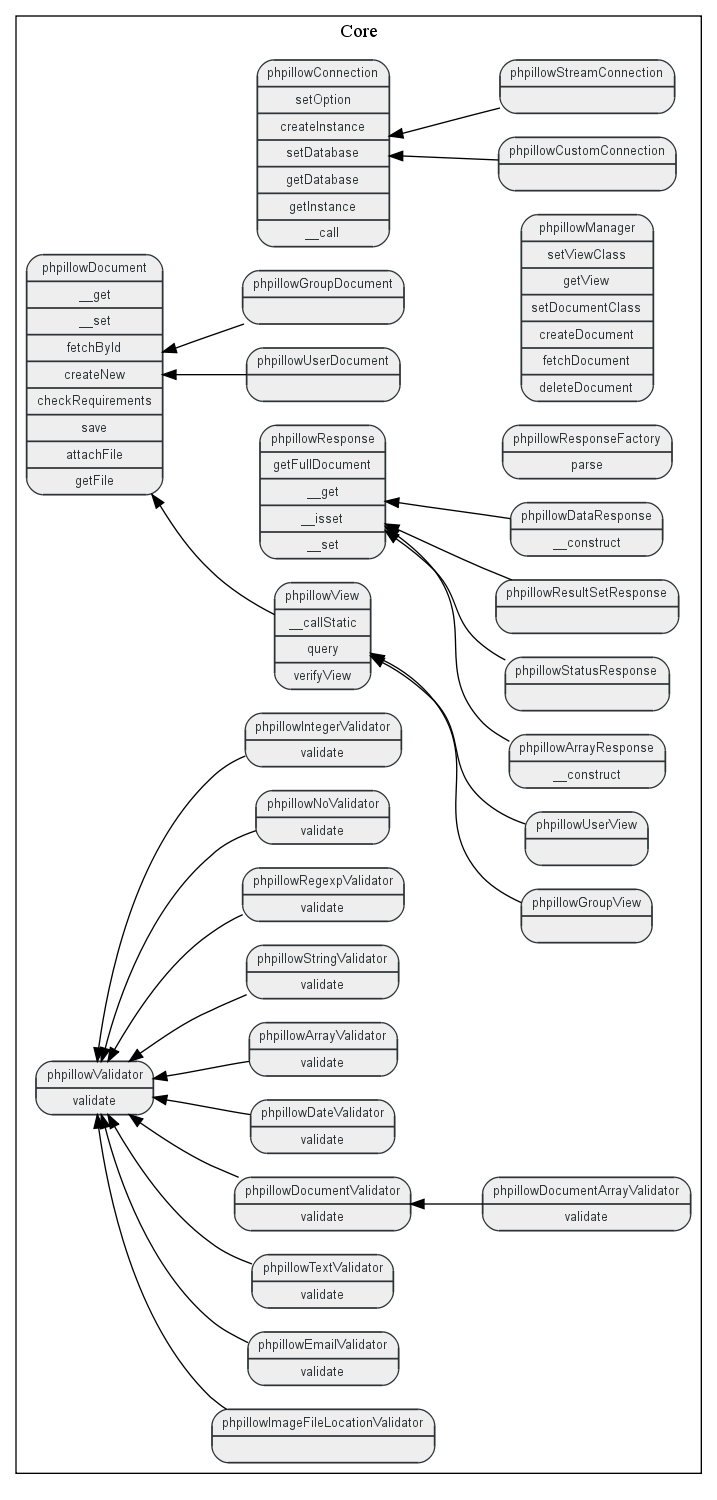
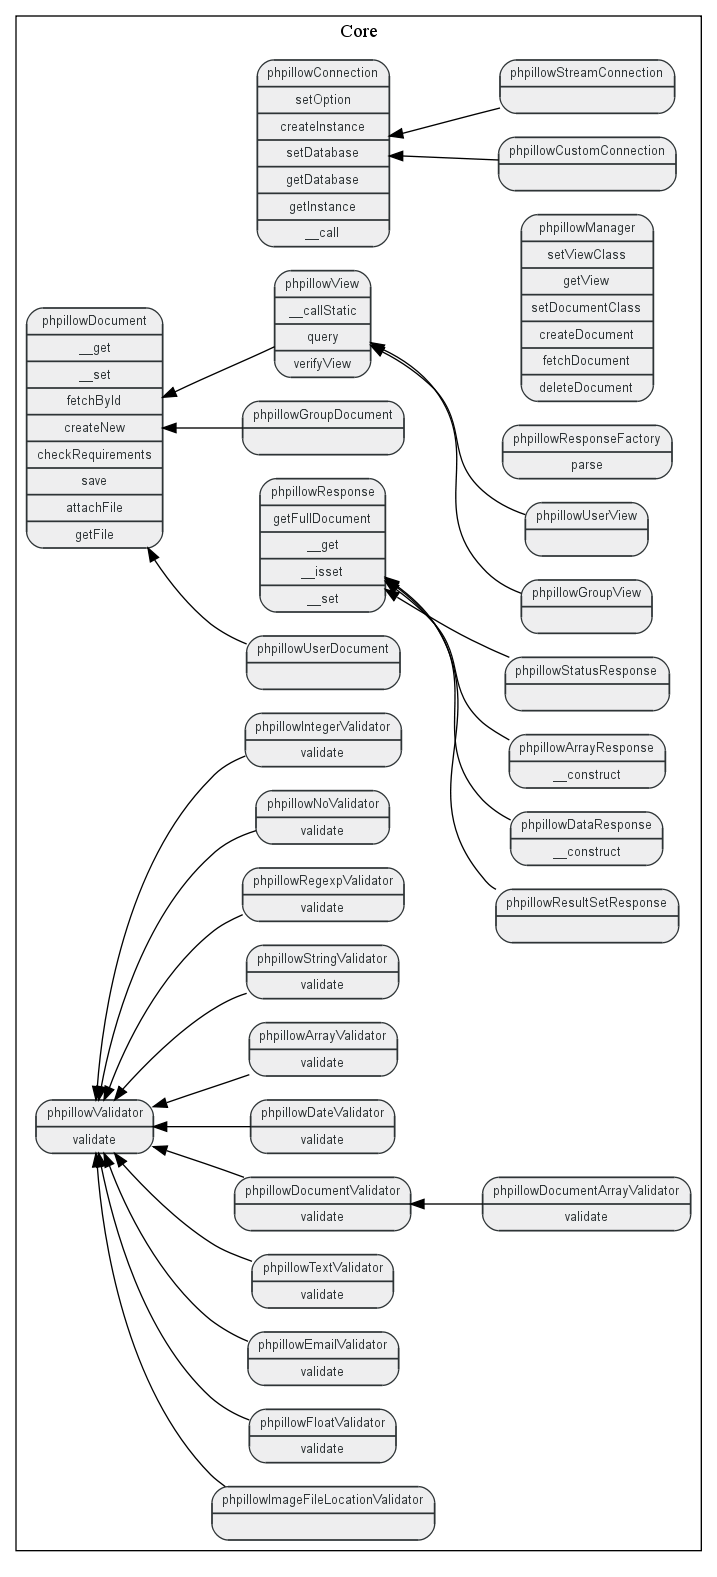
- Implemented: Float number validator
git-svn-id: svn://arbitracker.org/phpillow/trunk@65 c9640fd1-f2a0-481e-a8e5-009dc8289155

diff --git a/src/classes/validator/float.php b/src/classes/validator/float.php
@@ -1,0 +1,102 @@
+<?php
+/**
+ * phpillow CouchDB backend
+ *
+ * This file is part of phpillow.
+ *
+ * phpillow is free software; you can redistribute it and/or modify it under
+ * the terms of the GNU Lesser General Public License as published by the Free
+ * Software Foundation; version 3 of the License.
+ *
+ * phpillow is distributed in the hope that it will be useful, but WITHOUT ANY
+ * WARRANTY; without even the implied warranty of MERCHANTABILITY or FITNESS
+ * FOR A PARTICULAR PURPOSE.  See the GNU Lesser General Public License for
+ * more details.
+ *
+ * You should have received a copy of the GNU Lesser General Public License
+ * along with phpillow; if not, write to the Free Software Foundation, Inc., 51
+ * Franklin St, Fifth Floor, Boston, MA  02110-1301  USA
+ *
+ * @package Core
+ * @version $Revision: 4 $
+ * @license http://www.gnu.org/licenses/lgpl-3.0.txt LGPL
+ */
+
+/**
+ * Validate float inputs
+ *
+ * @package Core
+ * @version $Revision: 4 $
+ * @license http://www.gnu.org/licenses/lgpl-3.0.txt LGPL
+ */
+class phpillowFloatValidator extends phpillowValidator
+{
+    /**
+     * Minimum value for passed float value
+     * 
+     * @var int
+     */
+    protected $min;
+
+    /**
+     * Maximum value for passed float value
+     * 
+     * @var int
+     */
+    protected $max;
+
+    /**
+     * Validator constructor
+     *
+     * Validator constructor to optionally specifiy the minimum and maximum
+     * value for the allowed float values. For no validation you may pass
+     * false to the respective parameter.
+     * 
+     * @param mixed $min 
+     * @param mixed $max 
+     * @return void
+     */
+    public function __construct( $min = false, $max = false )
+    {
+        $this->min = $min;
+        $this->max = $max;
+    }
+
+    /**
+     * Validate input as float
+     * 
+     * @param mixed $input 
+     * @return float
+     */
+    public function validate( $input )
+    {
+        // Check for minimum constraint
+        if ( ( $this->min !== false ) &&
+             ( $input < $this->min ) )
+        {
+            throw new phpillowValidationException(
+                'Input value %input is not bigger or equal then %minimum.',
+                array(
+                    'input'   => $input,
+                    'minimum' => $this->min,
+                )
+            );
+        }
+
+        // Check for maximum constraint
+        if ( ( $this->max !== false ) &&
+             ( $input > $this->max ) )
+        {
+            throw new phpillowValidationException(
+                'Input value %input is not lesser or equal then %maximum.',
+                array(
+                    'input'   => $input,
+                    'maximum' => $this->max,
+                )
+            );
+        }
+
+        return (float) $input;
+    }
+}
+

diff --git a/tests/phpillow/validator_tests.php b/tests/phpillow/validator_tests.php
@@ -137,6 +137,77 @@ class phpillowValidatorTests extends PHPUnit_Framework_TestCase
         }
     }
 
+    public function testFloatValidator()
+    {
+        $validator = new phpillowFloatValidator();
+
+        $this->assertSame(
+            23.,
+            $validator->validate( 23 )
+        );
+
+        $this->assertSame(
+            -23.,
+            $validator->validate( -23 )
+        );
+
+        $this->assertSame(
+            23.5,
+            $validator->validate( 23.5 )
+        );
+
+        $this->assertSame(
+            23.,
+            $validator->validate( '23' )
+        );
+    }
+
+    public function testFloatValidatorBoundings1()
+    {
+        $validator = new phpillowFloatValidator( 0 );
+
+        $this->assertSame(
+            23.,
+            $validator->validate( 23 )
+        );
+
+        try
+        {
+            $validator->validate( -23 );
+            $this->fail( 'Expected phpillowValidationException.' );
+        }
+        catch ( phpillowValidationException $e )
+        {
+            $this->assertSame(
+                'Input value %input is not bigger or equal then %minimum.',
+                $e->getText()
+            );
+        }
+    }
+
+    public function testFloatValidatorBoundings2()
+    {
+        $validator = new phpillowFloatValidator( false, 0 );
+
+        $this->assertSame(
+            -23.,
+            $validator->validate( -23 )
+        );
+
+        try
+        {
+            $validator->validate( 23 );
+            $this->fail( 'Expected phpillowValidationException.' );
+        }
+        catch ( phpillowValidationException $e )
+        {
+            $this->assertSame(
+                'Input value %input is not lesser or equal then %maximum.',
+                $e->getText()
+            );
+        }
+    }
+
     public function testArrayValidator()
     {
         $validator = new phpillowArrayValidator();

diff --git a/src/classes/autoload.php b/src/classes/autoload.php
@@ -59,6 +59,7 @@ return array(
     'phpillowDocumentValidator'              => 'classes/validator/document.php',
     'phpillowDocumentArrayValidator'         => 'classes/validator/document_array.php',
     'phpillowEmailValidator'                 => 'classes/validator/email.php',
+    'phpillowFloatValidator'                 => 'classes/validator/float.php',
     'phpillowImageFileLocationValidator'     => 'classes/validator/image_file_location.php',
     'phpillowIntegerValidator'               => 'classes/validator/integer.php',
     'phpillowNoValidator'                    => 'classes/validator/no.php',
